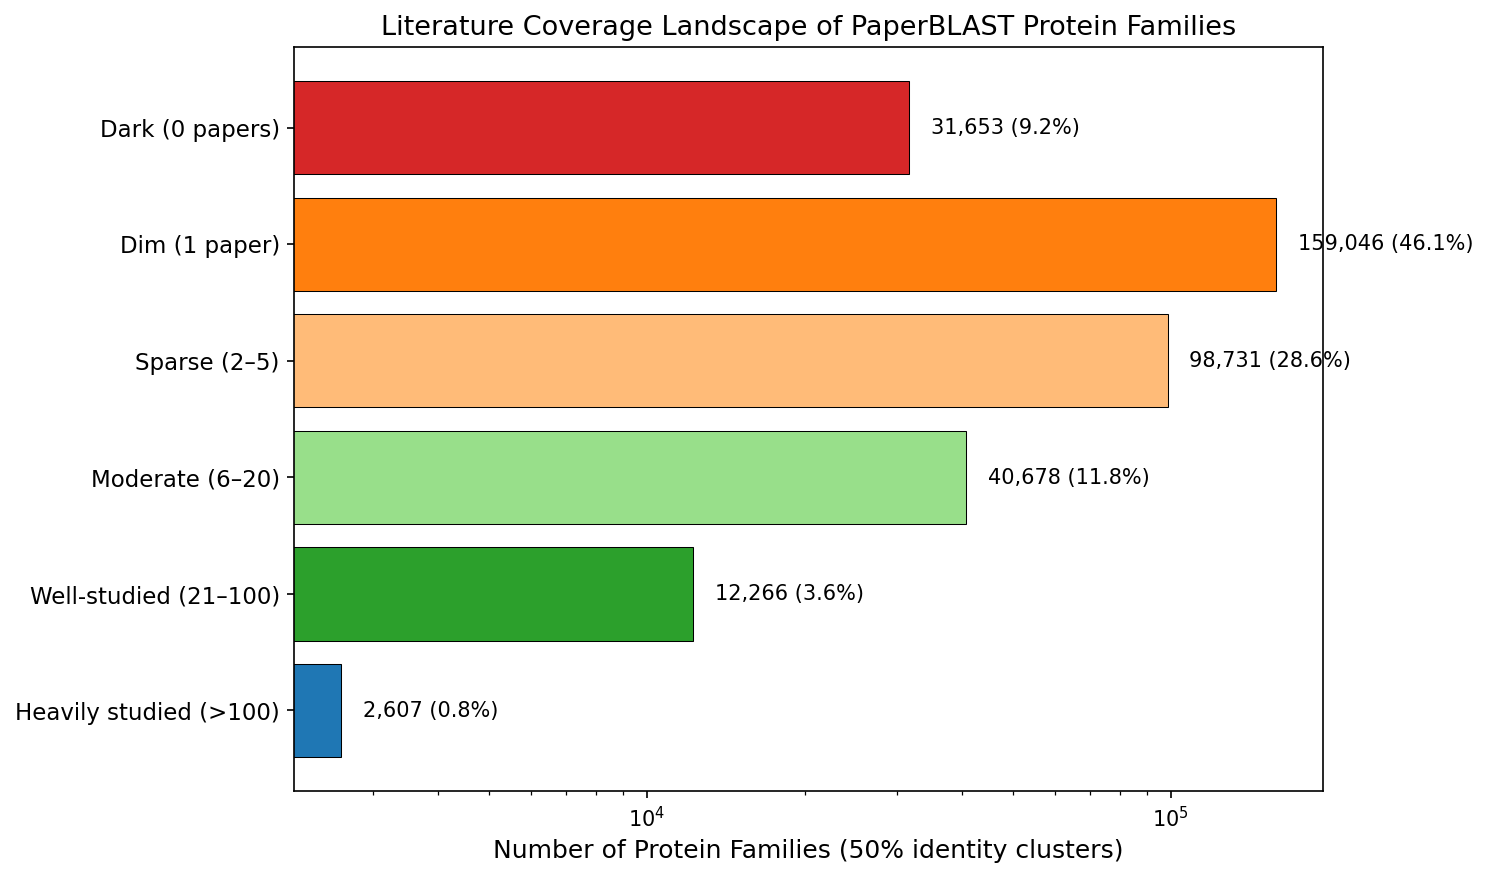
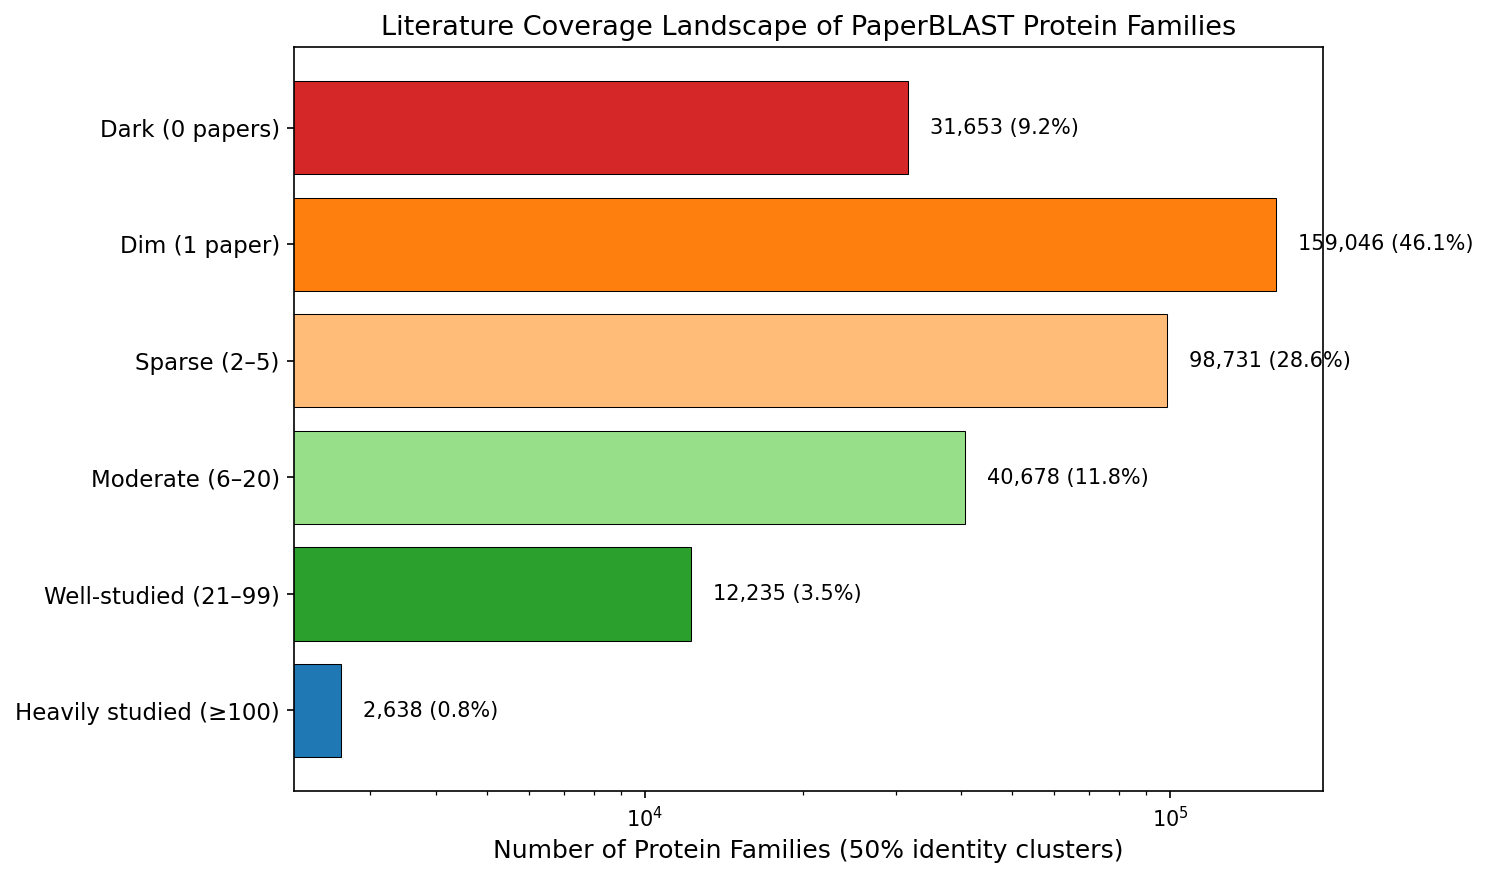
Address remaining review suggestions
- Add NB03 (sequence clustering) to RESEARCH_PLAN.md
- Expand README reproduction section with dependency diagram and
  instructions for all three notebooks including MinIO data retrieval
- Add Quick Links to REPORT, RESEARCH_PLAN, and references
- Reconcile >=100 vs >100 threshold in NB03 (now consistently >=100)
- Annotate requirements.txt with berdl_notebook_utils note and
  Python version requirement
- Regenerate figures with consistent thresholds

diff --git a/projects/paperblast_explorer/README.md b/projects/paperblast_explorer/README.md
@@ -14,14 +14,37 @@ PaperBLAST (Price & Arkin, mSystems 2017) links protein sequences to scientific 
 - `kescience_fitnessbrowser` — for cross-referencing FB organism coverage (via VIMSS IDs)
 
 ## Quick Links
+- [Report](REPORT.md) — findings and interpretation
+- [Research Plan](RESEARCH_PLAN.md) — analysis plan and context
+- [References](references.md) — cited literature
 - [Notebooks](notebooks/) — exploratory analysis
 
 ## Reproduction
+
+Notebooks must be run on the BERDL JupyterHub (requires `berdl_notebook_utils` for Spark access).
+
+```
+NB01 (database overview)
+  └─► data/*.csv (organism counts, year distribution, papers per gene)
+       └─► NB02 (coverage skew — reads NB01 outputs from data/)
+            └─► figures/ (Lorenz curves, top-20 bacteria, etc.)
+
+CTS Job c10c4a0f (MMseqs2 clustering, runs on remote compute)
+  └─► data/clusters_{90,50,30}pct.tsv
+       └─► NB03 (cluster analysis — reads TSVs locally, Spark for annotations)
+            └─► figures/ (cluster size distributions, coverage landscape)
+```
+
 ```bash
+# NB01 and NB02 (require Spark)
 cd notebooks/
 jupyter nbconvert --to notebook --execute --inplace 01_paperblast_overview.ipynb
+jupyter nbconvert --to notebook --execute --inplace 02_coverage_skew.ipynb
+
+# NB03 requires cluster TSVs in data/ — either from a prior CTS run
+# or download from MinIO: mc cp berdl-minio/cts/io/psdehal/output/mmseqs_full/ ../data/
+jupyter nbconvert --to notebook --execute --inplace 03_sequence_clustering.ipynb
 ```
-Requires BERDL Spark access (JupyterHub or proxy).
 
 ## Authors
 - Paramvir Dehal (https://orcid.org/0000-0002-3495-1240), Lawrence Berkeley National Laboratory, US Department of Energy

diff --git a/projects/paperblast_explorer/RESEARCH_PLAN.md b/projects/paperblast_explorer/RESEARCH_PLAN.md
@@ -28,10 +28,18 @@ This is a data characterization project, not a hypothesis-driven analysis. The g
 ### Notebook 2: Coverage Skew Analysis
 - Organism concentration: cumulative coverage curves (top N organisms = X% of literature)
 - Gene concentration: papers-per-gene distribution, top 50 genes
-- Lorenz inequality curves for organisms and genes
+- Lorenz inequality curves and Gini coefficients for organisms and genes
 - Bacterial focus: top microbes by literature coverage
 - SwissProt coverage analysis
 - Top 50 tables for organisms and genes
+
+### Notebook 3: Sequence Clustering Analysis
+*Added after initial plan — motivated by exploring sequence diversity in the collection.*
+- Extract all 815,571 unique protein sequences from `uniq` table
+- Cluster with MMseqs2 at 90%, 50%, and 30% identity via CTS remote compute
+- Analyze cluster size distributions, identify largest protein families
+- Cross-reference clustering with literature coverage to identify "dark" protein families
+- Quantify sequence space reduction at each identity threshold
 
 ## Expected Outcomes
 - Reference document characterizing PaperBLAST scale, currency, and biases
@@ -39,6 +47,7 @@ This is a data characterization project, not a hypothesis-driven analysis. The g
 - Understanding of cross-collection linkage potential (PaperBLAST ↔ Fitness Browser ↔ pangenome)
 
 ## Revision History
+- **v2** (2026-02-22): Added Notebook 3 (sequence clustering) to plan
 - **v1** (2026-02-22): Initial plan and analysis complete
 
 ## Authors

diff --git a/projects/paperblast_explorer/REPORT.md b/projects/paperblast_explorer/REPORT.md
@@ -46,7 +46,7 @@ MMseqs2 clustering of 815,571 PaperBLAST protein sequences at three identity thr
 
 ![Literature coverage landscape of protein families](figures/literature_coverage_landscape.png)
 
-At 50% identity, **9.2% of protein families** (31,653) have **zero papers** across all members, and **46.1%** (159,046) have exactly 1 paper. Only **4.3%** of families (14,873) have more than 20 papers. 5,218 multi-member families — representing 14,534 sequences — have no literature whatsoever. These are the "dark" protein families.
+At 50% identity, **9.2% of protein families** (31,653) have **zero papers** across all members, and **46.1%** (159,046) have exactly 1 paper. Only **4.3%** of families (14,904) have 20 or more papers. 5,218 multi-member families — representing 14,534 sequences — have no literature whatsoever. These are the "dark" protein families.
 
 *(Notebook: 03_sequence_clustering.ipynb)*
 